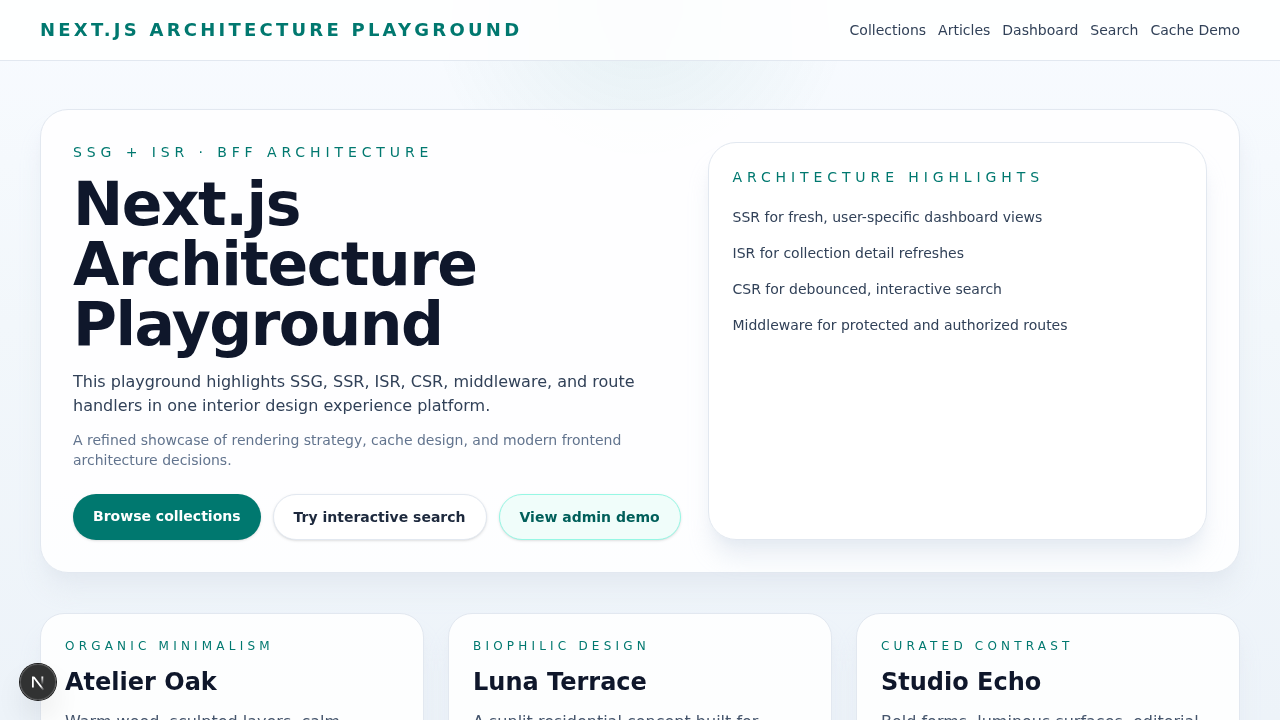
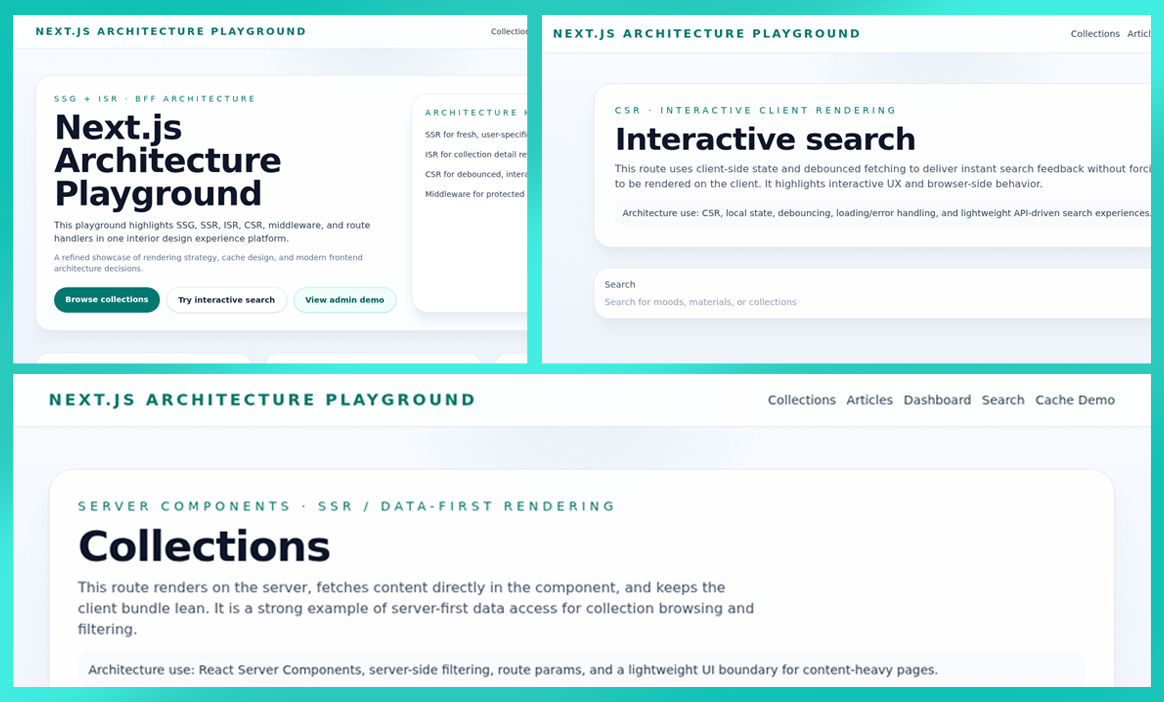
update screenshot fin

diff --git a/README.md b/README.md
@@ -2,7 +2,7 @@
 
 This project is a polished architecture showcase for an interior design experience platform. It is intentionally designed to demonstrate how a senior Next.js frontend engineer evaluates rendering strategy, caching, auth, authorization, route design, and platform architecture in a production-minded codebase.
 
-The current implementation also includes the latest visual polish: a darker, more editorial palette, stronger typography hierarchy, refined glass-card surfaces, and consistent presentation across the landing, collections, articles, dashboard, profile, search, and cache-demo views.
+The current implementation also includes a refined visual direction: a bright editorial palette with blue and green accents, stronger typography hierarchy, soft glass-card surfaces, and consistent presentation across the landing, collections, articles, dashboard, profile, search, and cache-demo views.
 
 ## What this project shows
 
@@ -16,7 +16,7 @@ This personal showcase demonstrates how a Next.js app can be structured to explo
 
 ## Project screenshots
 
-![Portfolio overview](public/screenshots/portfolio-collage.png)
+![Portfolio overview](public/screenshots/home.png)
 
 ## What this project demonstrates
 
@@ -46,12 +46,7 @@ This app intentionally showcases the following concepts:
 
 The project is not a commerce app. It is an architecture-first playground focused on the trade-offs that shape real production systems: performance, UX, security, maintainability, and rendering discipline.
 
-The experience is centered around:
-- Design inspirations
-- Living spaces
-- Furniture collections
-- Designer articles
-- Trends
+The experience is centered around a flexible content-driven concept with curated visuals, editorial storytelling, and interactive sections that help demonstrate different rendering and UX patterns.
 
 This framing makes it easy to explain why some pages are static, some are dynamic, and some are highly interactive — a common discussion point in senior frontend interviews.
 
